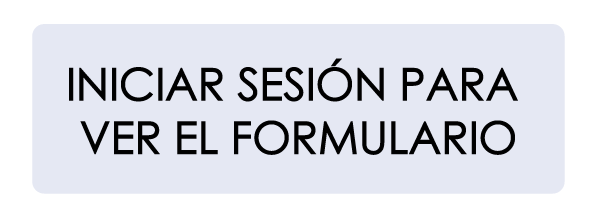
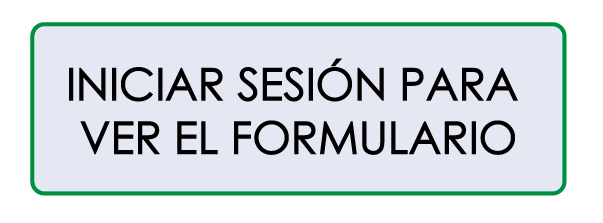
cambio de img y fixes de css

Changed region(s): [[0.0299, 0.0807, 0.9552, 0.8879]]

diff --git a/src/components/Inicio/inicio.module.css b/src/components/Inicio/inicio.module.css
@@ -2,19 +2,21 @@
 	display: flex;
 	justify-content: space-evenly;
 	align-items: center;
+	height: 75vh;
 }
 
 .tresLogos {
 	display: flex;
 	flex-direction: column;
+	gap: 5vh;
 }
 
 .tresLogos img {
-	width: 40vw;
+	height: 20vh;
 }
 
 .inicieSesion img {
-	width: 35vw;
+	height: 20vh;
 }
 
 @media screen and (orientation: portrait) {
@@ -24,12 +26,11 @@
 	}
 	.inicioContainer {
 		flex-direction: column-reverse;
-		height: 85vh;
 	}
 	.inicieSesion img {
-		width: 65vw;
+		height: 15vh;
 	}
 	.tresLogos img {
-		width: 55vw;
+		height: 15vh;
 	}
 }
